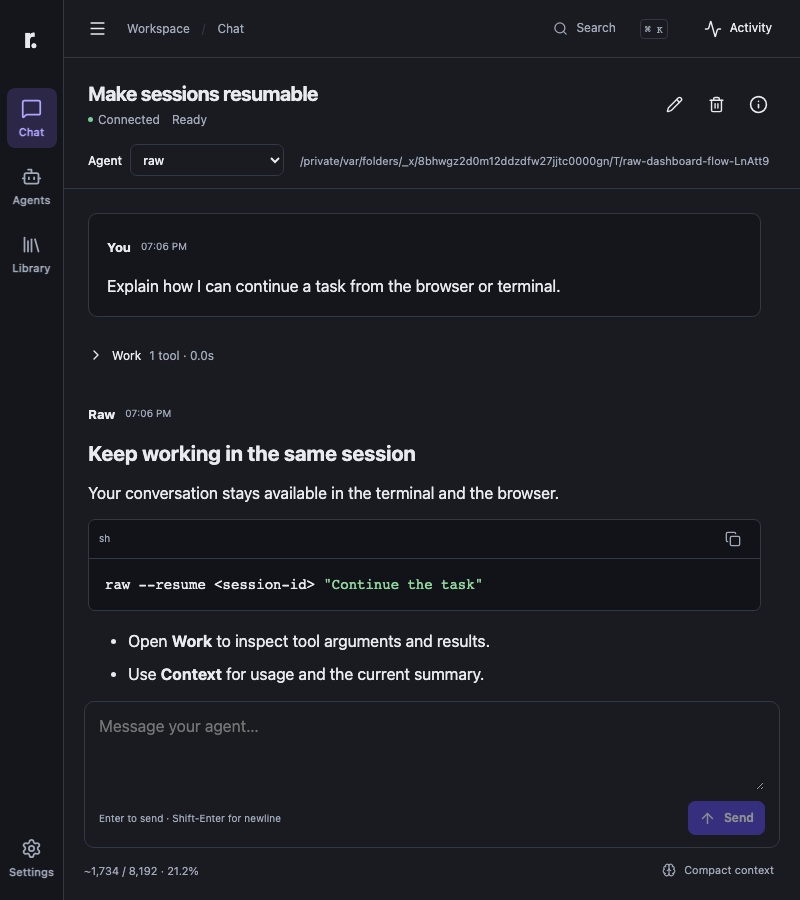
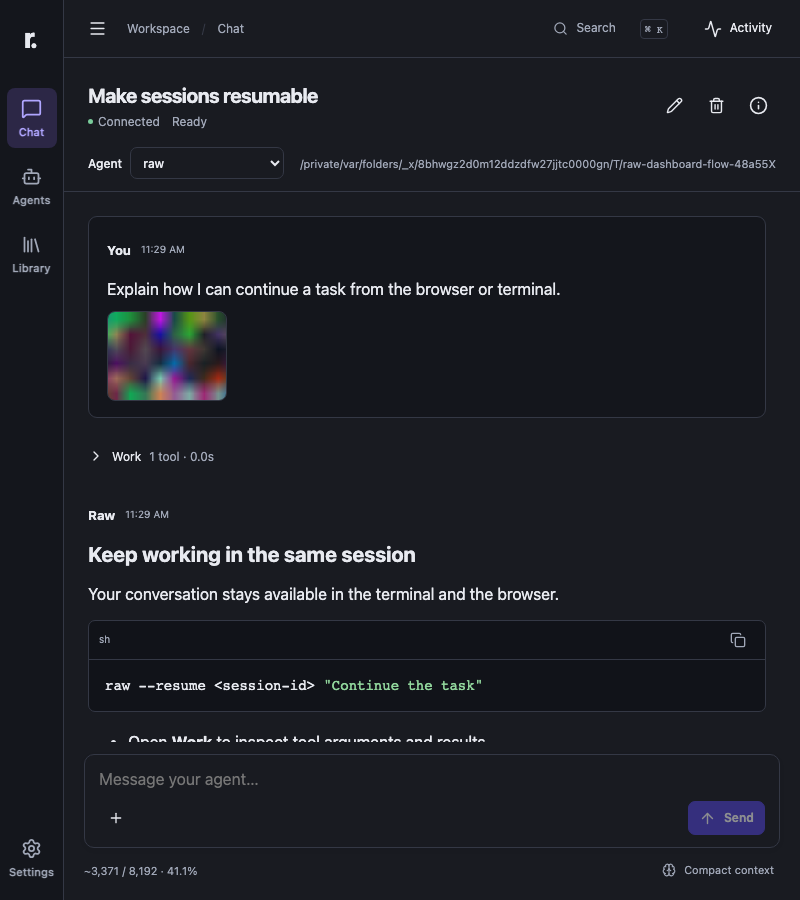
docs: document dashboard composer attachments and commands

diff --git a/tests/dashboard-installed.test.ts b/tests/dashboard-installed.test.ts
@@ -8,6 +8,7 @@ import { join } from "node:path";
 import test from "node:test";
 import { chromium, expect } from "@playwright/test";
 import { openAiDone, openAiFrame, startMockProvider } from "./fixtures/mock-provider.js";
+import { makePng } from "./fixtures/images.js";
 
 async function command(bin: string, args: string[], cwd: string, env: NodeJS.ProcessEnv) {
   const child = spawn(bin, args, { cwd, env, stdio: ["ignore", "pipe", "pipe"], signal: AbortSignal.timeout(90_000) });
@@ -32,7 +33,7 @@ test("packed dashboard configures, reconnects, updates a package, then installed
   const consumer = join(root, "consumer"), workspace = join(root, "unrelated-workspace"), author = join(root, "author");
   const call = { frames: [openAiFrame({ tool_calls: [{ index: 0, id: "effect", type: "function", function: { name: "package_echo", arguments: '{"text":"test"}' } }] }, "tool_calls"), openAiDone] };
   const answer = (content: string) => ({ frames: [openAiFrame({ content }, "stop"), openAiDone] });
-  const provider = await startMockProvider([call, answer("First installed answer"), call, answer("Updated installed answer"), answer("CLI continued")]);
+  const provider = await startMockProvider([call, answer("First installed answer"), call, answer("Updated installed answer"), answer("Image turn answer"), answer("CLI continued")]);
   let host: ReturnType<typeof spawn> | undefined, closed: Promise<number | null> | undefined;
   let browser: Awaited<ReturnType<typeof chromium.launch>> | undefined;
   let stdout = "", stderr = "";
@@ -114,13 +115,21 @@ test("packed dashboard configures, reconnects, updates a package, then installed
     await page.goto(`${origin}/chat/${id}`); await page.getByRole("textbox", { name: "Message", exact: true }).fill("After package update"); await page.getByRole("button", { name: "Send", exact: true }).click();
     await expect(page.getByText("Updated installed answer", { exact: true })).toBeVisible(); assert.equal(await readFile(join(workspace, "effects.txt"), "utf8"), "v1\nv2\n");
     assert.equal(await readFile(join(workspace, "hook-effects.txt"), "utf8"), "notice\nnotice\n");
+    // An image turn from the installed artifact: this agent's model has no vision, so the model receives a placeholder and the turn is not blocked.
+    const png = makePng();
+    await page.locator("input[type=file]").setInputFiles({ name: "installed.png", mimeType: "image/png", buffer: png });
+    await expect(page.locator(".attachment-chip.ready", { hasText: "installed.png" })).toBeVisible();
+    await page.getByRole("textbox", { name: "Message", exact: true }).fill("Look at this image"); await page.getByRole("button", { name: "Send", exact: true }).click();
+    await expect(page.getByText("Image turn answer", { exact: true })).toBeVisible();
+    await page.reload(); await expect(page.getByTestId("user-message").last().locator("img")).toBeVisible();
     assert.deepEqual(errors, []); assert.deepEqual(external, []); await browser.close(); browser = undefined;
     host.kill("SIGTERM"); assert.equal(await closed, 0); host = undefined;
     const resumed = await command(bin, ["--resume", id, "Continue in CLI"], workspace, env); assert.equal(resumed.stdout, "CLI continued\n"); assert.match(resumed.stderr, new RegExp(id));
-    assert.equal(await readFile(join(workspace, "hook-effects.txt"), "utf8"), "notice\nnotice\nnotice\n");
+    assert.equal(await readFile(join(workspace, "hook-effects.txt"), "utf8"), "notice\nnotice\nnotice\nnotice\n"); // three dashboard turns (the third is the image turn) and the CLI turn
     const requests = provider.requests.map(item => item.body as { prompt_cache_key: string; messages: unknown[]; tools: unknown[] });
-    assert.equal(requests.length, 5); assert.notEqual(requests[0]!.prompt_cache_key, requests[2]!.prompt_cache_key); assert.equal(requests[2]!.prompt_cache_key, requests[4]!.prompt_cache_key);
-    assert.deepEqual(requests[4]!.messages.slice(0, requests[3]!.messages.length), requests[3]!.messages); assert.deepEqual(requests[4]!.tools, requests[3]!.tools);
+    assert.equal(requests.length, 6); assert.notEqual(requests[0]!.prompt_cache_key, requests[2]!.prompt_cache_key); assert.equal(requests[2]!.prompt_cache_key, requests[5]!.prompt_cache_key);
+    const imageRequest = JSON.stringify(requests[4]); assert.match(imageRequest, /Image omitted/); assert.doesNotMatch(imageRequest, /image_url/); assert.ok(!imageRequest.includes(png.toString("base64")));
+    assert.deepEqual(requests[5]!.messages.slice(0, requests[4]!.messages.length), requests[4]!.messages); assert.deepEqual(requests[5]!.tools, requests[4]!.tools);
     assert.equal(await readFile(join(workspace, "effects.txt"), "utf8"), "v1\nv2\n");
     const dependencyHash = createHash("sha256").update(await readFile(join(consumer, "package-lock.json"))).digest("hex");
     const staticFiles = (await readdir(join(installed, "dist/dashboard/assets"))).sort();

diff --git a/tests/dashboard-ui/capture.ts b/tests/dashboard-ui/capture.ts
@@ -2,10 +2,12 @@ import { chromium } from "@playwright/test";
 import { mkdirSync } from "node:fs";
 import { dashboardFixture } from "../fixtures/dashboard.js";
 import { openAiFrame, openAiDone } from "../fixtures/mock-provider.js";
+import { makePngOfSize } from "../fixtures/images.js";
 
 // Run after npm run build. These are real HTTP/tool flows in disposable local state.
 mkdirSync("docs/dashboard", { recursive: true });
 const raw = await dashboardFixture({
+  model: { vision: true },
   agent: { tools: { use: ["builtin/bash"] } },
   responses: [
     {
@@ -64,6 +66,12 @@ try {
     title: "Make sessions resumable",
   });
   await page.reload();
+  await page.locator("input[type=file]").setInputFiles({
+    name: "terminal-session.png",
+    mimeType: "image/png",
+    buffer: makePngOfSize(24 * 1024),
+  });
+  await page.locator(".attachment-chip.ready").waitFor();
   await page
     .getByRole("textbox", { name: "Message" })
     .fill("Explain how I can continue a task from the browser or terminal.");
@@ -101,6 +109,14 @@ try {
       console.log(JSON.stringify({ label, theme, width, overflow }));
     }
   await page.setViewportSize({ width: 1440, height: 900 });
+  await page.goto(raw.server.url + sessionPath);
+  await page.getByLabel("Message", { exact: true }).pressSequentially("/");
+  await page.getByRole("listbox", { name: "Suggestions" }).waitFor();
+  await page.screenshot({
+    path: "docs/dashboard/chat-dark-commands.png",
+    animations: "disabled",
+  });
+  await page.getByLabel("Message", { exact: true }).fill("");
   await page.getByRole("button", { name: "Session details" }).click();
   await page.getByRole("heading", { name: "Context", exact: true }).waitFor();
   await page.screenshot({

diff --git a/tests/dashboard-assets.test.ts b/tests/dashboard-assets.test.ts
@@ -14,5 +14,10 @@ test("built browser entry and local module assets are served without a developme
     assert.ok(scripts.length); assert.doesNotMatch(html, /https?:\/\/|localhost:5173/);
     for (const path of scripts) { assert.ok(path.startsWith("/assets/")); const asset = await fetch(f.server.url + path); assert.equal(asset.status, 200); assert.match(asset.headers.get("content-type")!, /javascript/); }
     assert.equal(f.provider.requests.length, 0);
+    // The composer ships in the static bundle, and its image loading stays within the CSP's same-origin/data: sources.
+    const bundle = (await Promise.all(scripts.map(async (path) => (await fetch(f.server.url + path)).text()))).join("\n");
+    for (const text of ["Add attachment", "Drop to attach", "No matching commands", "Reference workspace file"]) assert.ok(bundle.includes(text), `bundle lacks ${text}`);
+    assert.match(response.headers.get("content-security-policy")!, /img-src 'self' data:(?:;|$)/);
+    assert.doesNotMatch(response.headers.get("content-security-policy")!, /blob:/);
   } finally { await f.close(); }
 });

diff --git a/add-chat-composer-attachments-and-commands-plan.md b/add-chat-composer-attachments-and-commands-plan.md
@@ -436,9 +436,9 @@ Installed test runs from the packed tarball, not the working tree; screenshots r
 Do not hand-edit generated mirrors; regenerate via the existing build scripts. Do not push, publish or install globally.
 
 ### Acceptance criteria
-- [ ] AC-1: Docs match implemented routes, limits and shortcuts — proven by inspection against Phase 2–5 tests.
-- [ ] AC-2: Refreshed screenshots show the new composer at desktop/tablet/narrow in light and dark — proven by capture run.
-- [ ] AC-3: Installed artifact completes an image turn — proven by `test:package`.
+- [x] AC-1: Docs match implemented routes, limits and shortcuts — proven by inspection against Phase 2–5 tests.
+- [x] AC-2: Refreshed screenshots show the new composer at desktop/tablet/narrow in light and dark — proven by capture run.
+- [x] AC-3: Installed artifact completes an image turn — proven by `test:package`.
 
 ### Focused verification
 `npm run build && node --import tsx --test tests/dashboard-installed.test.ts tests/dashboard-assets.test.ts`
@@ -469,3 +469,4 @@ Implementation review is required; verdict must be APPROVE.
 - 2026-09-29 Phase 4: `web/src/composer/` (Composer, generic SuggestionPopover/provider model, slash commands, auto-grow), chat.tsx integration (`/compact`, `/rename`, `/new` via the existing create flow, `/details`, skills from `/api/agents/:name/composer`). Deviation recorded in design D9: the textarea keeps its textbox role (role=combobox fails axe `aria-allowed-role`); the listbox uses aria-controls/aria-autocomplete/aria-haspopup/aria-activedescendant. `+` is rendered disabled until Phase 5. `tests/dashboard-ui/composer.spec.ts` (12). `npm test` 566/569 (3 baseline PTY failures); `npm run test:web` 153 pass across chromium/firefox/webkit. Codex gpt-6-astra review: APPROVE after 5 findings fixed (`/new` action, stale suggestions, width refit, viewport-capped popover, single async call) plus a self-found caret-restore race.
 - 2026-09-29 Phase 4: `web/src/composer/` (Composer, generic SuggestionPopover/provider model, slash commands, auto-grow), chat.tsx integration (`/compact`, `/rename`, `/new` via the existing create flow, `/details`, skills from `/api/agents/:name/composer`). Deviation recorded in design D9: the textarea keeps its textbox role (role=combobox fails axe `aria-allowed-role`); the listbox uses aria-controls/aria-autocomplete/aria-haspopup/aria-activedescendant. `+` is rendered disabled until Phase 5. `tests/dashboard-ui/composer.spec.ts` (12). `npm test` 566/569 (3 baseline PTY failures); `npm run test:web` 153 pass across chromium/firefox/webkit. Codex gpt-6-astra review: APPROVE after 5 findings fixed (`/new` action, stale suggestions, width refit, viewport-capped popover, single async call) plus a self-found caret-restore race.
 - 2026-09-29 Phase 5: `+` menu (upload, `@` reference, commands), chips with uploading/ready/error/retry/remove, drag-drop and paste (text pasted with files stays), `@` file provider (150 ms debounce, aborted when superseded), send body `attachments`/`files` with attachment-only default text, timeline thumbnails with enlarge dialog and file chips loaded through the Bearer-authenticated history endpoint as `data:` URLs, client kind registry (`attachment-kinds.ts` + `builtin-kinds.tsx`, proven by `tests/web-attachment-kinds.test.ts`). Deviations recorded as D12: chip errors never disable Send (degrade, never block) and only an in-flight upload does; server owns count/aggregate limits (shown as a chip error). `tests/dashboard-ui/attachments.spec.ts` (13 per browser). `npm test` 567/570 (3 baseline PTY); `npm run test:web` 192 pass on chromium/firefox/webkit. Codex gpt-6-astra review: APPROVE after 5 findings (2 fixed, 2 withdrawn after rebuttal, plus a paste text-loss fix).
+- 2026-09-29 Phase 6: docs (`dashboard.md`, design reconciliation D5/D9/D12 and verification map, evidence section in `docs/evidence/local-dashboard.md`), regenerated screenshots via `tests/dashboard-ui/capture.ts` (image message in every layout, new `chat-dark-commands.png`, no overflow), bundle/CSP assertions in `tests/dashboard-assets.test.ts`, and an image turn from the packed tarball in `tests/dashboard-installed.test.ts` (non-vision placeholder path). `npm run typecheck` clean; `npm test` 567/570 (3 baseline PTY); `npm run test:web` 192 pass; `npm run test:package` 4/4. Codex gpt-6-astra review: APPROVE in 1 round.

diff --git a/docs/dashboard-composer-design.md b/docs/dashboard-composer-design.md
@@ -2,7 +2,7 @@
 
 Design reference for the dashboard chat composer: attachments, images, `@` file references and `/` commands. It records decisions and their reasons so later changes can be checked against them. User-facing behavior lives in `dashboard.md`, routes in `dashboard-api.md`. The implementation plan is `add-chat-composer-attachments-and-commands-plan.md`.
 
-Status: design accepted 2026-09-29; update this file when a decision changes.
+Status: design accepted 2026-09-29 and implemented across the six phases of the plan (reconciled 2026-09-29; deviations are called out in D9 and D12). Update this file when a decision changes.
 
 ## Goals
 
@@ -63,7 +63,7 @@ Three registries, each seeded with `image`:
 | --- | --- | --- |
 | Model | `nativeUserContent` in `src/llm/content.ts` | validator + ordered content parts; adapters map parts, in order, to wire shape |
 | Server | `AttachmentKind` in `src/dashboard/attachments.ts` | `{id, mimeTypes, maxBytes, validate, toBlock, fromBlock}` |
-| Web | `web/src/composer/attachment-kinds.ts` | `{id, accept, icon, preview, timelineRenderer}` |
+| Web | `web/src/composer/attachment-kinds.ts` (registry) and `builtin-kinds.tsx` (seeds) | `{id, label, icon, thumbnail?, timeline}`; `accept` and limits come from server metadata, never from the client |
 
 `accept`, limits and enabled/disabled reasons reach the UI through `GET /api/agents/:name/composer` (`attachmentKinds`). Adding a kind therefore means one server entry, one model mapping (per adapter that supports it; others raise `unsupported_content`) and one client renderer. Tests register a fake kind to keep this true.
 
@@ -125,4 +125,6 @@ If a step beyond these is needed, the design has regressed; fix the registry rat
 | D1, D4, D6 | `tests/provider-content.test.ts`, `tests/vision.test.ts` |
 | D2, D3, D5 (server), D7 | `tests/dashboard-attachments.test.ts`, `tests/dashboard-sessions.test.ts` |
 | D8 | `tests/session-view.test.ts`, `tests/dashboard-streams.test.ts` |
-| D5 (web), D9, D10, D11 | `tests/dashboard-ui/composer.spec.ts`, `attachments.spec.ts`, `accessibility.spec.ts` |
+| D5 (web) | `tests/web-attachment-kinds.test.ts` (fake kind through the registry), `tests/dashboard-ui/attachments.spec.ts` |
+| D9, D10, D11 | `tests/dashboard-ui/composer.spec.ts`, `chat.spec.ts`, `accessibility.spec.ts` |
+| D12, image flow end to end | `tests/dashboard-ui/attachments.spec.ts`, `tests/dashboard-installed.test.ts` (installed artifact), `tests/dashboard-assets.test.ts` (bundle and CSP) |

diff --git a/docs/evidence/local-dashboard.md b/docs/evidence/local-dashboard.md
@@ -204,3 +204,21 @@ report and the plan, neither of which enters the npm artifact or executable-sour
 manifest. Qualification is limited to this host/runtime, these browser versions,
 local mock providers and the bounded user-observed VoiceOver smoke. It is not a
 paid-provider, native Linux/Windows, complete WCAG or model-behavior certification.
+
+## Composer attachments and commands (2026-09-29)
+
+Scope: the dashboard chat composer (auto-growing message box, `/` commands, `@` file references, image upload, timeline images) per `add-chat-composer-attachments-and-commands-plan.md` and `docs/dashboard-composer-design.md`. Each phase was committed separately after a Codex (`gpt-6-astra`) implementation review reached APPROVE.
+
+Evidence by contract:
+
+| Contract | Proof |
+| --- | --- |
+| User image blocks reach all four provider wire shapes; non-vision models get a text placeholder, stored context is never rewritten | `tests/user-images.test.ts` (7) |
+| Upload, staging limits, structured turns, duplicate `clientRequestId`, workspace containment | `tests/dashboard-attachments.test.ts` |
+| History metadata without base64, byte-exact serving from any page, restart, SSE, CSP | `tests/dashboard-attachments.test.ts` (history section) |
+| `/` and `@` popovers, focus, IME, send mode, drafts, axe | `tests/dashboard-ui/composer.spec.ts`, `attachments.spec.ts` on chromium, firefox and webkit |
+| Client kind registry extensible with a fake kind | `tests/web-attachment-kinds.test.ts` |
+| Installed tarball serves the composer and completes an image turn (placeholder path, provider request checked) | `tests/dashboard-installed.test.ts` via `npm run test:package` |
+
+Screenshots in `docs/dashboard/` were regenerated with `node --import tsx tests/dashboard-ui/capture.ts` (desktop, tablet, narrow in light and dark, no horizontal overflow, plus `chat-dark-commands.png`). Known limits: PNG/JPEG only, uploads are workspace-independent staging (30 minutes, in memory), ACP `session/prompt` does not accept images, and qualification covers this host, local mock providers and the recorded browser versions only. The three PTY REPL tests in `tests/cli.test.ts` fail identically on the pre-change baseline (environmental) and are unrelated.
+

diff --git a/docs/dashboard.md b/docs/dashboard.md
@@ -52,6 +52,8 @@ These screenshots use a disposable workspace and a mock provider. Reproduce them
 | Tablet, 800×900 | [View](dashboard/chat-light-tablet.png) | [View](dashboard/chat-dark-tablet.png) |
 | Narrow, 320×900 | [View](dashboard/chat-light-narrow.png) | [View](dashboard/chat-dark-narrow.png) |
 
+[Command suggestions](dashboard/chat-dark-commands.png) show the `/` list above the composer; the desktop and narrow screenshots include an attached image in the conversation.
+
 [Context inspector](dashboard/chat-dark-inspector.png) shows estimates, available usage, measurement coverage and the last attached capabilities. Older measurements may be unavailable or stale; viewing them does not start a model or tool.
 
 [Native 400% zoom](dashboard/chat-native-400-percent.png) shows the complete browser
